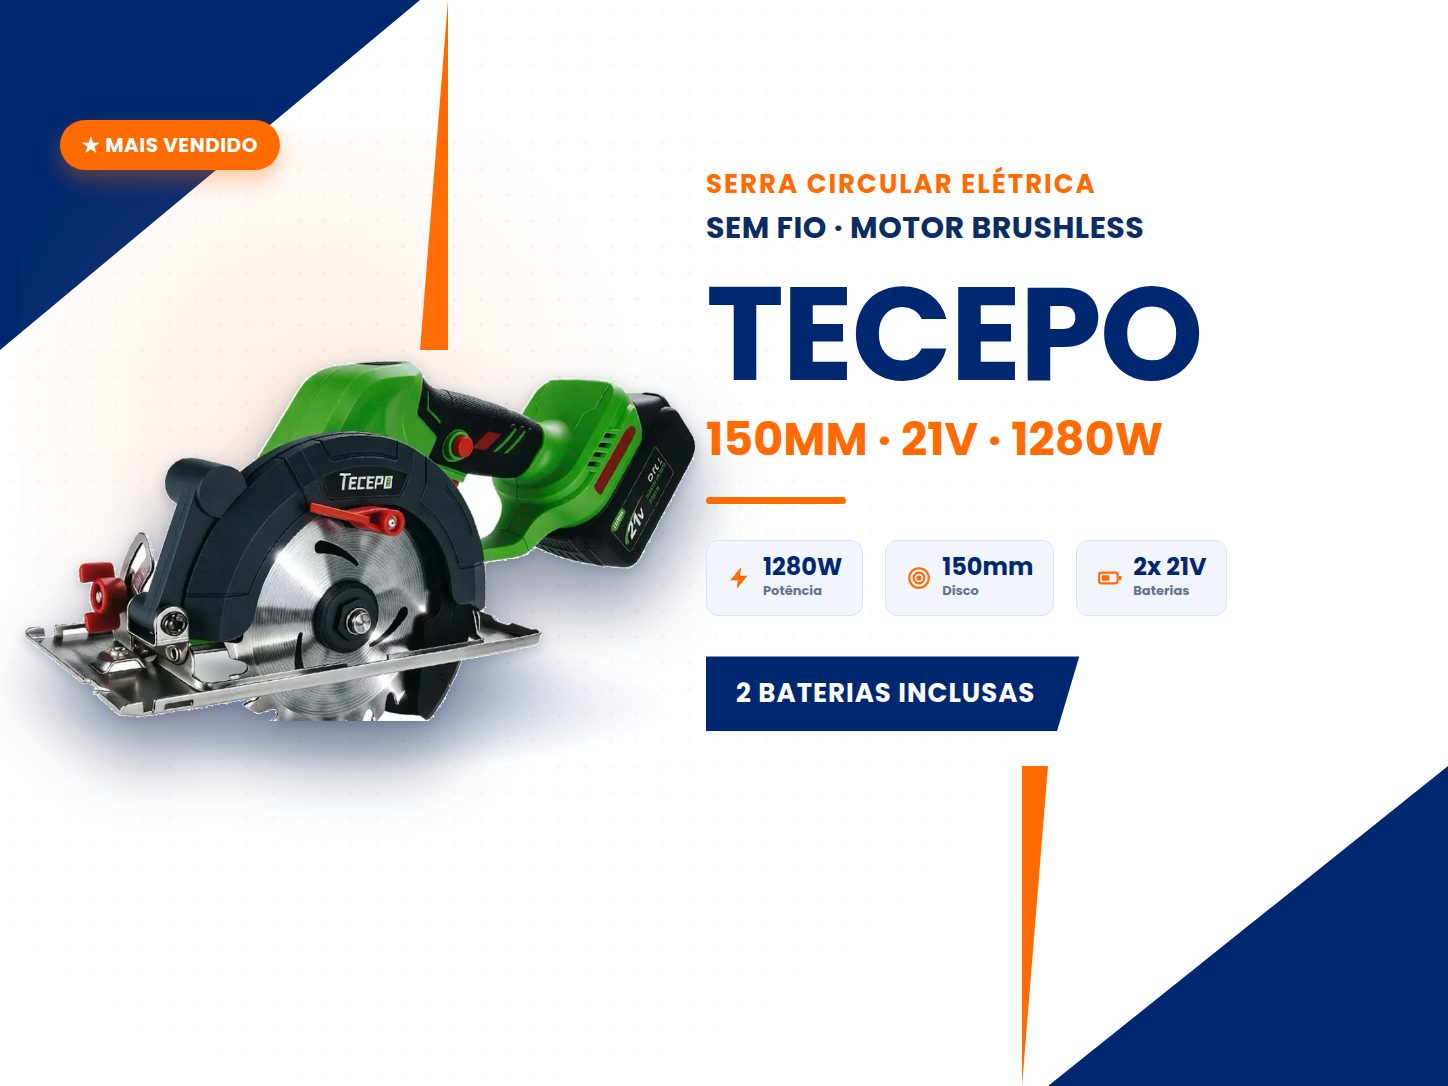
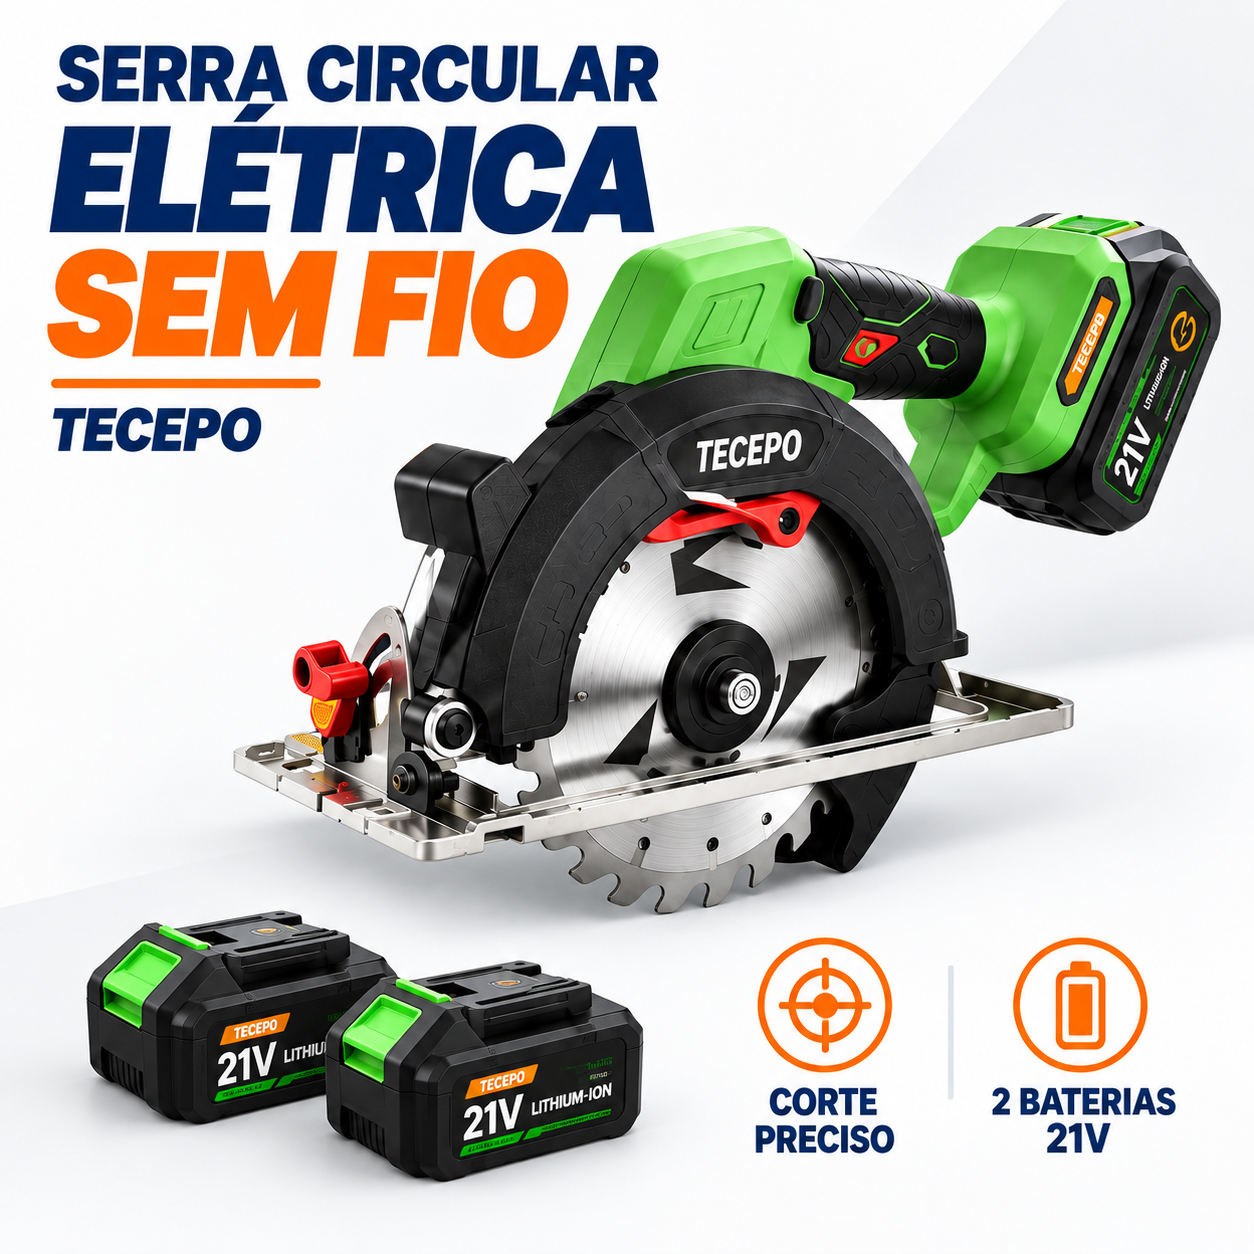
Adiciona link de checkout, atualiza imagens principais e preços da Serra Tecepo

diff --git a/src/data/product.ts b/src/data/product.ts
@@ -47,7 +47,8 @@ export type Product = {
 
 // Cole aqui a URL externa de checkout quando ela estiver disponível.
 // Todos os CTAs da página consomem esta única configuração.
-export const PRODUCT_CHECKOUT_URL: string | null = null;
+export const PRODUCT_CHECKOUT_URL: string | null =
+  'https://seguro.final-agora-br.shop/api/public/shopify?product=906956689987&store=9069';
 
 export const product: Product = {
   name: 'Serra Circular Elétrica Tecepo Profissional Sem Fio 150mm 21V',
@@ -55,30 +56,26 @@ export const product: Product = {
   eyebrow: 'SERRA CIRCULAR SEM FIO • MOTOR BRUSHLESS',
   description:
     'Serra circular elétrica sem fio, motor brushless de alta potência, disco de 150mm e duas baterias 21V inclusas para cortes profissionais em madeira, metal, PVC e azulejos.',
-  price: 559,
-  oldPrice: 799,
+  price: 89.9,
+  oldPrice: 249.9,
   checkoutUrl: PRODUCT_CHECKOUT_URL,
   availableVoltages: ['21V'],
   images: [
     {
       src: '/product/serra-tecepo-principal.png',
-      alt: 'Serra Circular Elétrica Tecepo Profissional Sem Fio 150mm em composição principal',
+      alt: 'Serra Circular Elétrica Tecepo Profissional Sem Fio 150mm em composição principal com 2 baterias 21V',
     },
     {
-      src: '/product/serra-tecepo-performance.png',
-      alt: 'Especificações da Serra Tecepo: motor brushless 1280W, 7200 RPM, disco 150mm, bateria 21V',
-    },
-    {
-      src: '/product/serra-tecepo-tecnologia.png',
-      alt: 'Tecnologia do motor brushless da Serra Tecepo: mais torque, vida útil e autonomia',
+      src: '/product/serra-tecepo-detalhes.png',
+      alt: 'Detalhes da Serra Tecepo: trava de segurança, cabo ergonômico, bateria 21V, motor sem escovas e ajuste de ângulo',
     },
     {
       src: '/product/serra-tecepo-aplicacoes.png',
-      alt: 'Serra Tecepo em uso: corte em metal, PVC, madeira e azulejos',
+      alt: 'Cenários aplicáveis da Serra Tecepo: corte em madeira, PVC, metal e cerâmica/azulejos',
     },
     {
       src: '/product/serra-tecepo-kit.png',
-      alt: 'O que vem na caixa: serra, 2 baterias 21V, carregador, 2 lâminas reserva, óculos e luvas',
+      alt: 'Itens inclusos: serra, 2 baterias 21V, 2 lâminas de corte, óculos, luvas, carregador bivolt, chave e manual',
     },
   ],
   benefits: [
@@ -125,12 +122,14 @@ export const product: Product = {
     { label: 'Cor', value: 'Verde-limão' },
   ],
   kitContents: [
-    '1 serra circular Tecepo 21V',
-    '2 baterias 21V 4.0Ah',
-    '1 carregador rápido',
-    '2 lâminas de reserva 150 mm',
+    '1 serra circular Tecepo sem fio',
+    '2 baterias 21V',
+    '2 lâminas de corte',
     '1 óculos de proteção',
     '1 par de luvas',
+    '1 carregador bivolt',
+    '1 chave de manutenção',
+    '1 manual de instruções',
   ],
   reviews: [],
   faq: [
@@ -157,7 +156,7 @@ export const product: Product = {
     {
       question: 'O que vem na caixa?',
       answer:
-        'Acompanha a serra, 2 baterias 21V 4.0Ah, 1 carregador, 2 lâminas de reserva de 150 mm, 1 óculos de proteção e 1 par de luvas.',
+        'Acompanha a serra, 2 baterias 21V, 2 lâminas de corte, 1 óculos de proteção, 1 par de luvas, 1 carregador bivolt, 1 chave de manutenção e 1 manual de instruções.',
     },
     {
       question: 'A lâmina pode ser trocada?',
